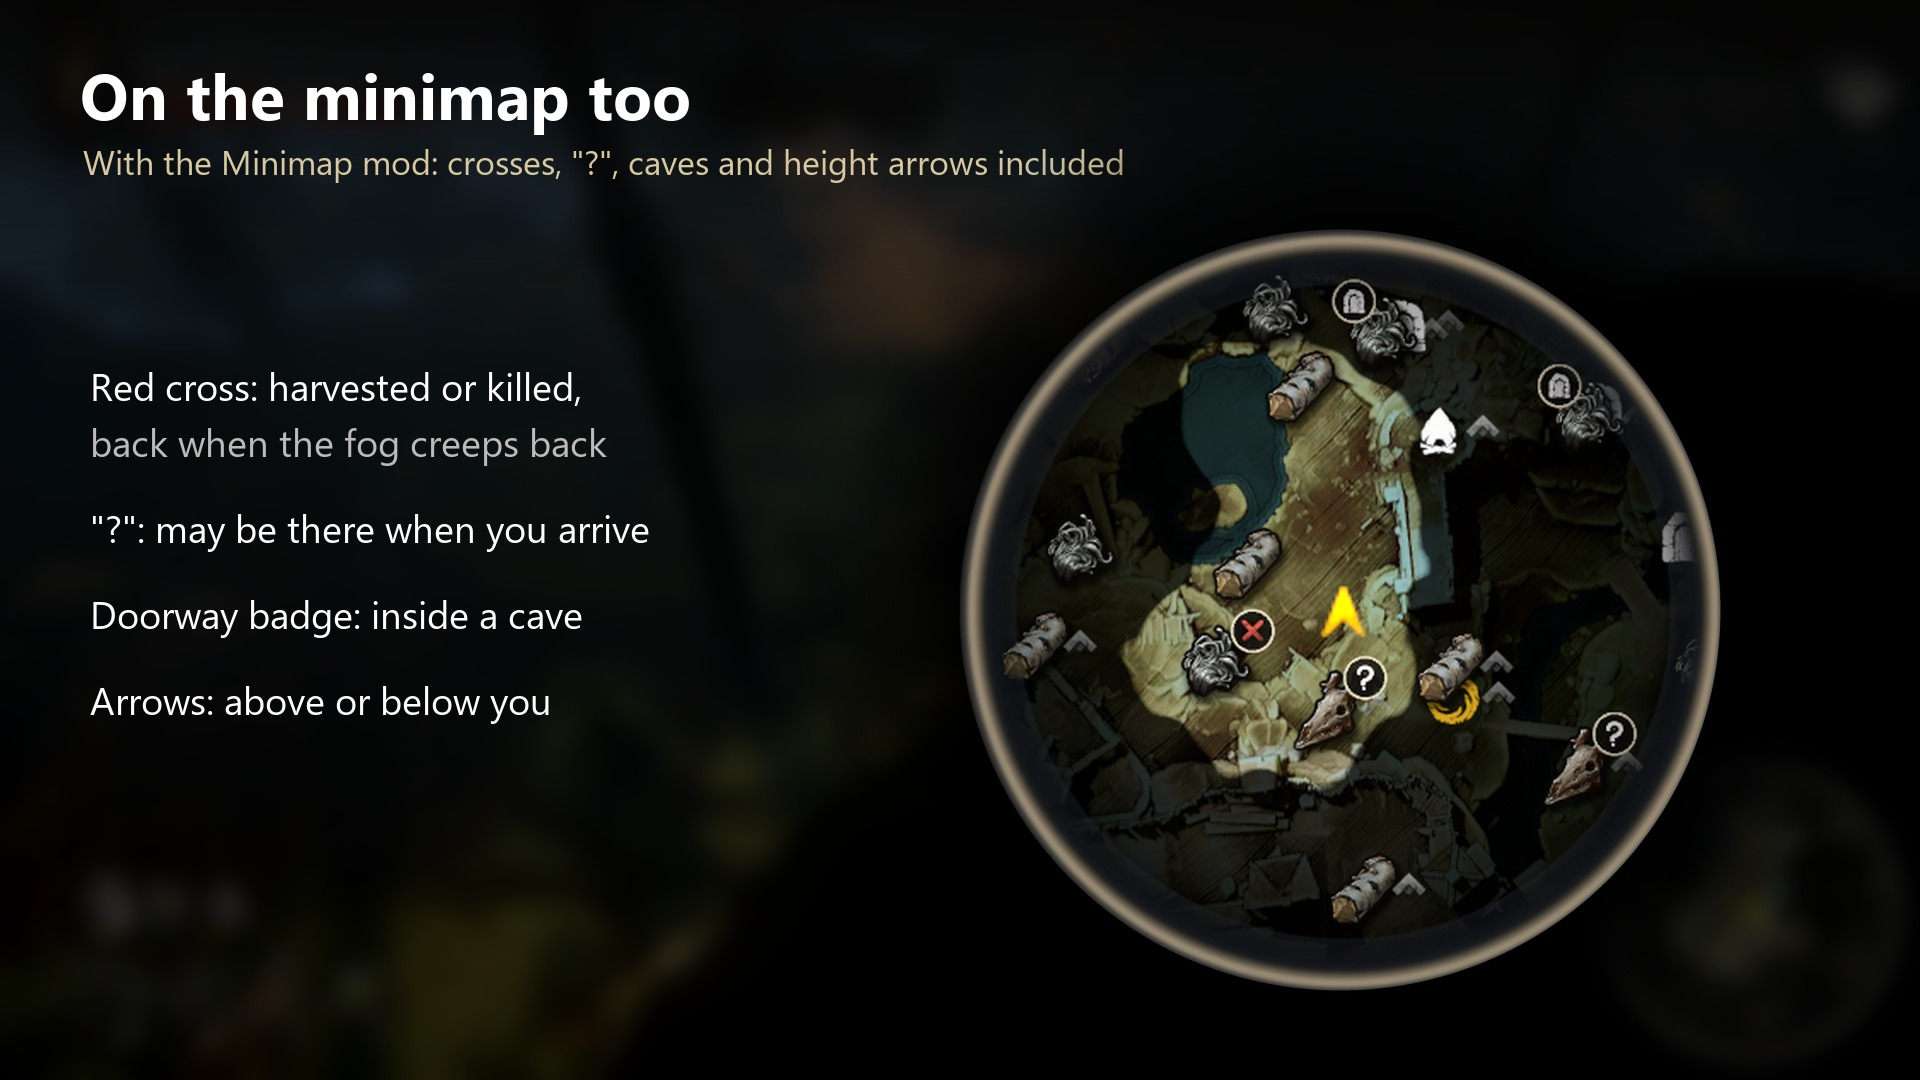
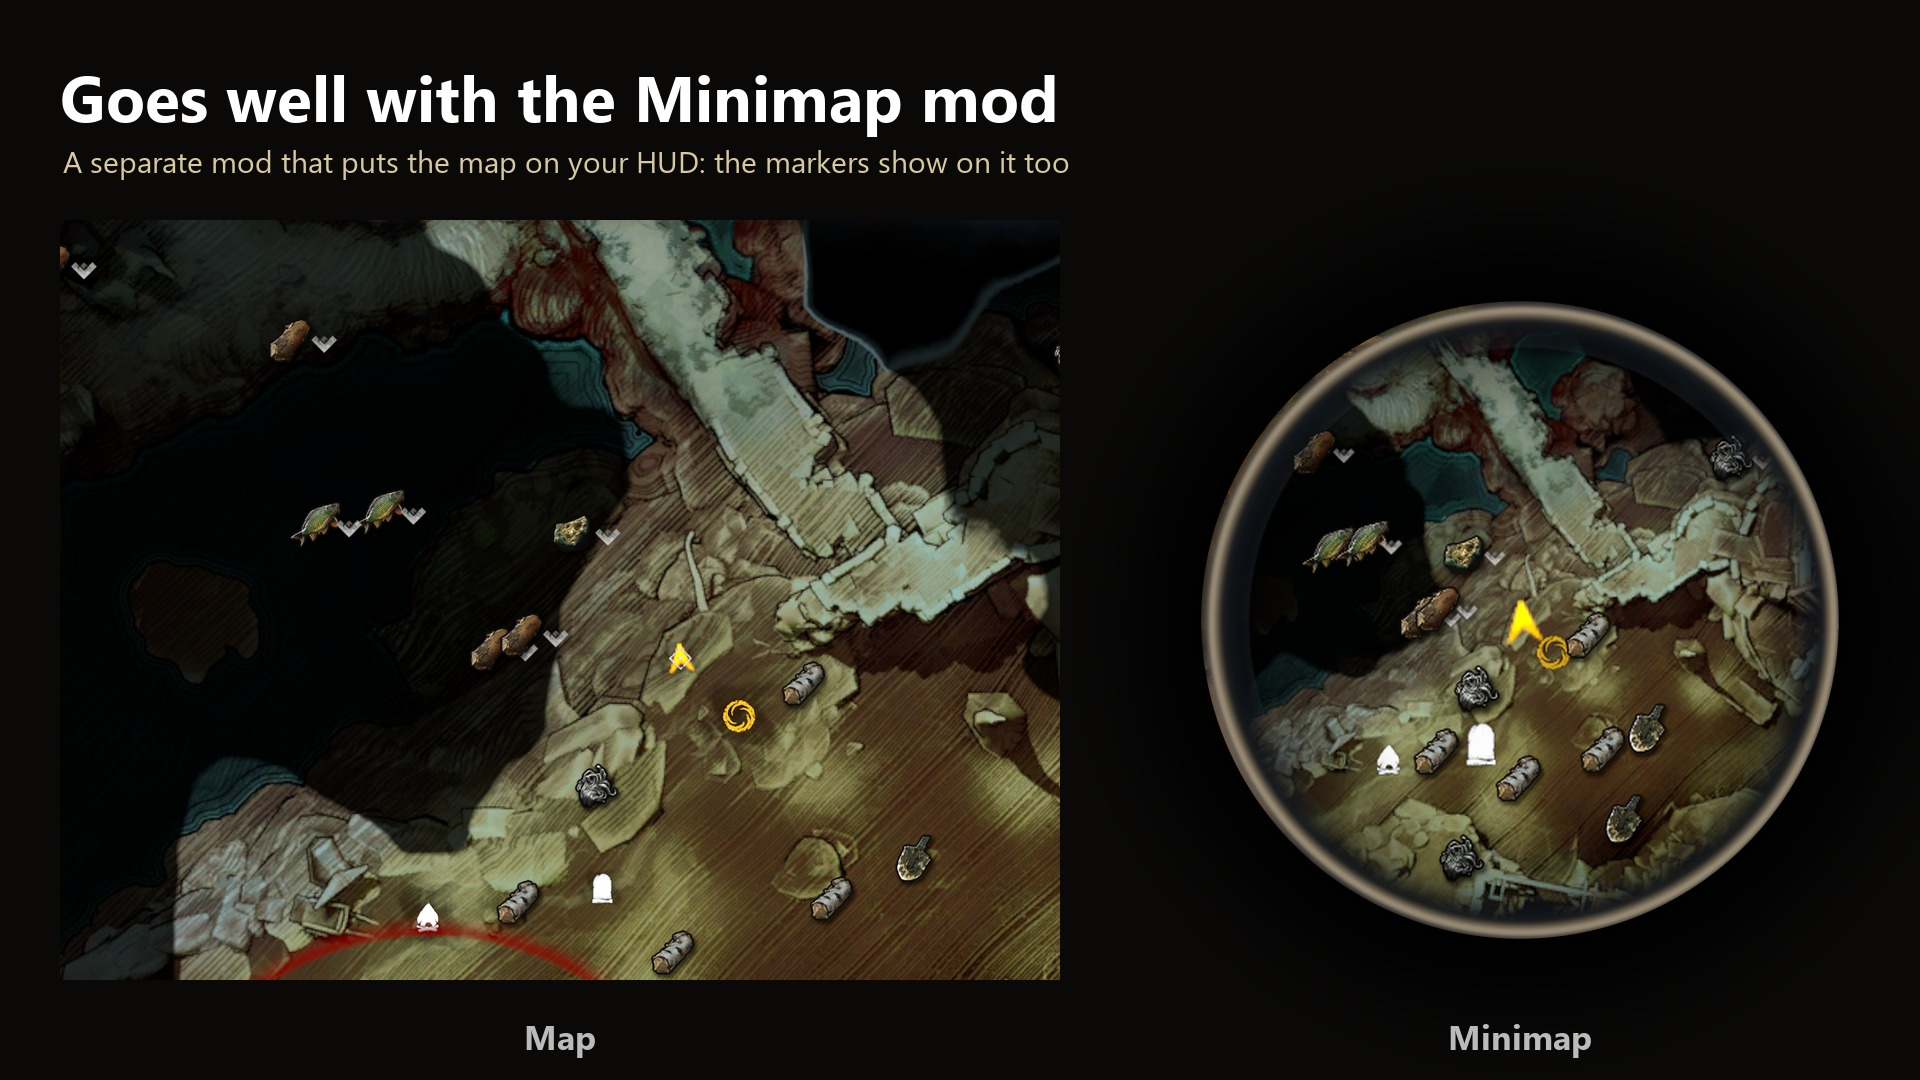
Images: plain settings shot, Minimap integration in the Minimap mod's style; no height arrows in the feature lists

diff --git a/docs/pics/make_nexus_images.py b/docs/pics/make_nexus_images.py
@@ -4,8 +4,8 @@
 * panel.jpg: the Markers panel in the map's Filters menu
 * challenge.jpg: a "Kill N" challenge and the map with that faction's markers
 * caves.jpg, valuables.jpg, navigation.jpg: the map with those markers, captioned
-* minimap.jpg: the markers on the Minimap mod's minimap (crosses, "?", cave badges, height arrows)
-* settings.jpg: the Options rows' live previews
+* minimap.jpg: the markers on the Minimap mod's minimap (its raw shots, the layout of its map-markers.jpg)
+* settings.jpg: the Options rows
 * header.jpg (1300x372): Nexus page header / README top
 
 Raw screenshots (git-ignored, docs/pics/*.png): taken on a 9:8 monitor with the game at 16:9, so crop16x9 finds the
@@ -158,56 +158,51 @@ def map_shot(src, name, title, sub, box=MAP_BOX):
     save(caption(img, title, sub), name)
 
 
+MINIMAP_PICS = os.path.join(HERE, "..", "..", "..", "Minimap", "docs", "pics")
+
+
 def minimap():
-    """The Minimap mod's minimap, enlarged over the blurred scene."""
-    src = shot("07_minimap")
-    w, h = src.size
-    s = h / 1080
-    side, m = SIZE * s, MARGIN * s
-    x1, y1 = w - m, h - m
-    p = side * 0.06
-    mm = src.crop((int(x1 - side - p), int(y1 - side - p), int(x1 + p), int(y1 + p)))
-    size = 860
-    mm = mm.resize((size, size), Image.LANCZOS)
-    img = dim(full("07_minimap").filter(ImageFilter.GaussianBlur(12)), 0.35)
-    img = caption(img, "On the minimap too", "With the Minimap mod: crosses, \"?\", caves and height arrows included")
-    cx, cy = 1340, 610
-    box = (cx - size // 2, cy - size // 2)
-    img = shadow(img, (box[0] - 30, box[1] - 30, box[0] + size + 30, box[1] + size + 30), 45, 230)
-    img.paste(mm, box, round_mask(size, 0.06 / 1.12 + 0.004))
+    """Same layout as the Minimap mod's map-markers.jpg (its raw shots of one spot): the map left, the minimap right."""
+    def mm_shot(name):
+        return crop16x9(Image.open(os.path.join(MINIMAP_PICS, name + ".png")).convert("RGB"))
+    big = mm_shot("05b_map").resize((W, H), Image.LANCZOS)
+    mini = mm_shot("05_map_markers")
+    img = Image.new("RGB", (W, H), (10, 9, 8))
+    win = big.crop((W // 2 - 620, H // 2 - 400, W // 2 + 380, H // 2 + 360)).resize((1000, 760), Image.LANCZOS)
+    img.paste(win, (60, 220))
+    size = 720
+    img = shadow(img, (1130, 230, 1130 + size + 60, 230 + size + 60), 40, 230)
+    w, h = mini.size
+    side, m = SIZE * h / 1080, MARGIN * h / 1080
+    x1, y1, p = w - m, h - m, side * 0.06
+    mm = mini.crop((int(x1 - side - p), int(y1 - side - p), int(x1 + p), int(y1 + p))).resize((size, size), Image.LANCZOS)
+    img.paste(mm, (1160, 260), round_mask(size, 0.06 / 1.12 + 0.004))
     d = ImageDraw.Draw(img)
-    notes = ["Red cross: harvested or killed,", "back when the fog creeps back", "",
-             "\"?\": may be there when you arrive", "", "Doorway badge: inside a cave", "",
-             "Arrows: above or below you"]
-    y = 360
-    for line in notes:
-        d.text((90, y), line, font=font(38, False), fill=WHITE if line and not line.startswith("back") else GREY)
-        y += 56 if line else 30
+    d.text((60, 52), "Goes well with the Minimap mod", font=font(64), fill=WHITE)
+    d.text((63, 140), "A separate mod that puts the map on your HUD: the markers show on it too",
+           font=font(30, False), fill=GOLD)
+    d.text((560, 1050), "Map", font=font(34), fill=GREY, anchor="ms")
+    d.text((1160 + size // 2, 1050), "Minimap", font=font(34), fill=GREY, anchor="ms")
     save(img, "minimap.jpg")
 
 
 def settings():
-    """The description panel of four rows: what each setting changes, live."""
-    img = dim(full("08_settings_category").filter(ImageFilter.GaussianBlur(14)), 0.35)
-    img = caption(img, "Every setting shows what it changes", "A live preview under each description in Options")
-    tiles = [("08_settings_category", "Enemies: the group's markers"),
-             ("09_settings_size", "Marker Size: live while you drag"),
-             ("10_settings_unexplored_on", "Unexplored Areas: On"),
-             ("10b_settings_unexplored_off", "Unexplored Areas: Off")]
-    tw, th = 820, 350
-    for k, (name, label) in enumerate(tiles):
-        src = full(name)
-        # the description column, from the row name to just under the preview
-        # the row name is the first bright text in the description column below the tab bar
-        txt = np.asarray(src.convert("L"))[190:, 1075:1600]
-        rows = np.where(txt.max(axis=1) > 150)[0]
-        top = 190 + int(rows[0]) - 18 if len(rows) else 230
-        tile = src.crop((1060, top, 1060 + tw, top + th))
-        x = 110 + (k % 2) * (tw + 80)
-        y = 245 + (k // 2) * (th + 85)
-        img = shadow(img, (x - 10, y - 10, x + tw + 10, y + th + 10), 25, 220, False)
-        img.paste(tile, (x, y), rounded(tile, 14))
-        ImageDraw.Draw(img).text((x + tw // 2, y + th + 14), label, font=font(30), fill=GREY, anchor="mt")
+    """The Options rows (below the game's tab bar) with Enemies selected, its description showing the group's markers."""
+    src = full("08_settings_category")
+    img = dim(src.filter(ImageFilter.GaussianBlur(16)), 0.3)
+    img = caption(img, "Settings", "Choose the groups, the marker size and markers in unexplored areas")
+    box = (90, 210, 1730, 1040)                       # rows and description, without tabs and footer
+    k = 0.97
+    part = src.crop(box)
+    part = part.resize((int(part.width * k), int(part.height * k)), Image.LANCZOS)
+    at = ((W - part.width) // 2, 240)
+    img = shadow(img, (at[0] - 10, at[1] - 10, at[0] + part.width + 10, at[1] + part.height + 10), 30, 220, False)
+    img.paste(part, at, rounded(part, 16))
+    # a label at the preview: the group's markers under the description
+    d = ImageDraw.Draw(img)
+    px, py = at[0] + int((1080 - box[0]) * k), at[1] + int((480 - box[1]) * k)
+    d.line((px + 60, py + 20, px + 60, py + 90), fill=GOLD, width=3)
+    d.text((px + 20, py + 100), "Live preview of the setting", font=font(34), fill=GOLD)
     save(img, "settings.jpg")
 
 
@@ -235,7 +230,7 @@ def main():
     map_shot("05_valuables", "valuables.jpg", "Valuables",
              "Treasure chests, special shinies and keys (off by default)")
     map_shot("06_navigation", "navigation.jpg", "Navigation",
-             "Whispers you have not found yet, unopened shortcuts with height arrows")
+             "Whispers you have not found yet and shortcuts you have not opened")
     minimap()
     settings()
     header()

diff --git a/CHANGELOG.md b/CHANGELOG.md
@@ -14,8 +14,8 @@ First public release.
   after the action, also on the Minimap mod's minimap.
 * What is inside caves and cellars shows at their entrance; waiting at a cave's entrance shows the moment it rolls the
   enemy you are after.
-* The game's height arrows on markers near you (on the Minimap mod's minimap too); marker size and markers in unexplored
-  areas in Options > Gameplay, every row with a live preview under its description.
+* Marker size and markers in unexplored areas in Options > Gameplay, every row with a live preview under its
+  description.
 * Buttons appear once the story allows the type in your world and turn grey while none is around; names in the game's
   language.
 * Gamepad (D-pad and left stick) and keyboard navigation like the game's own filters.
